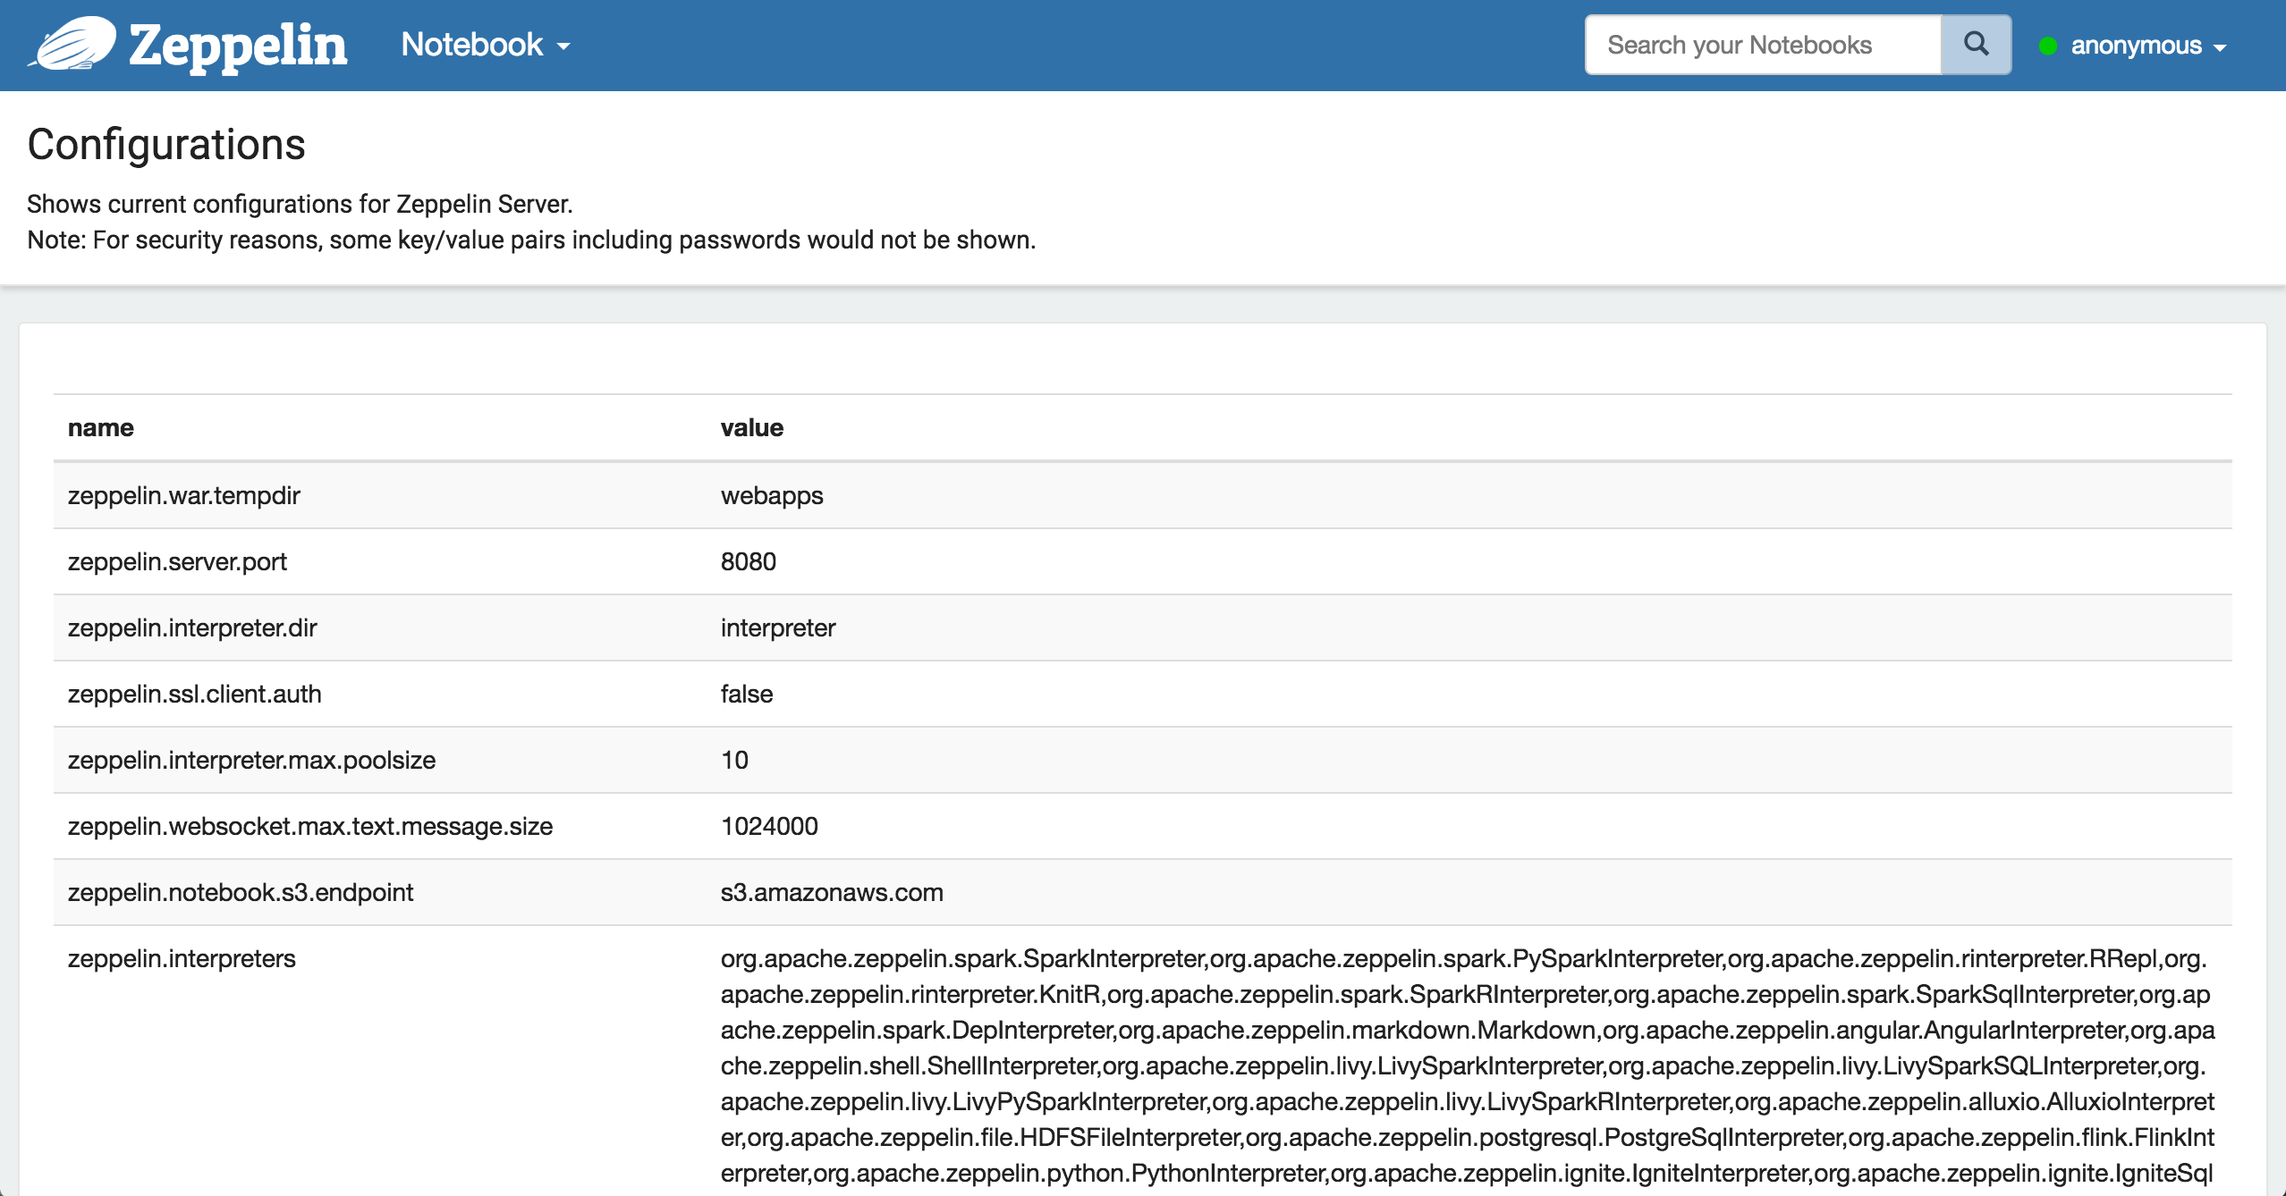
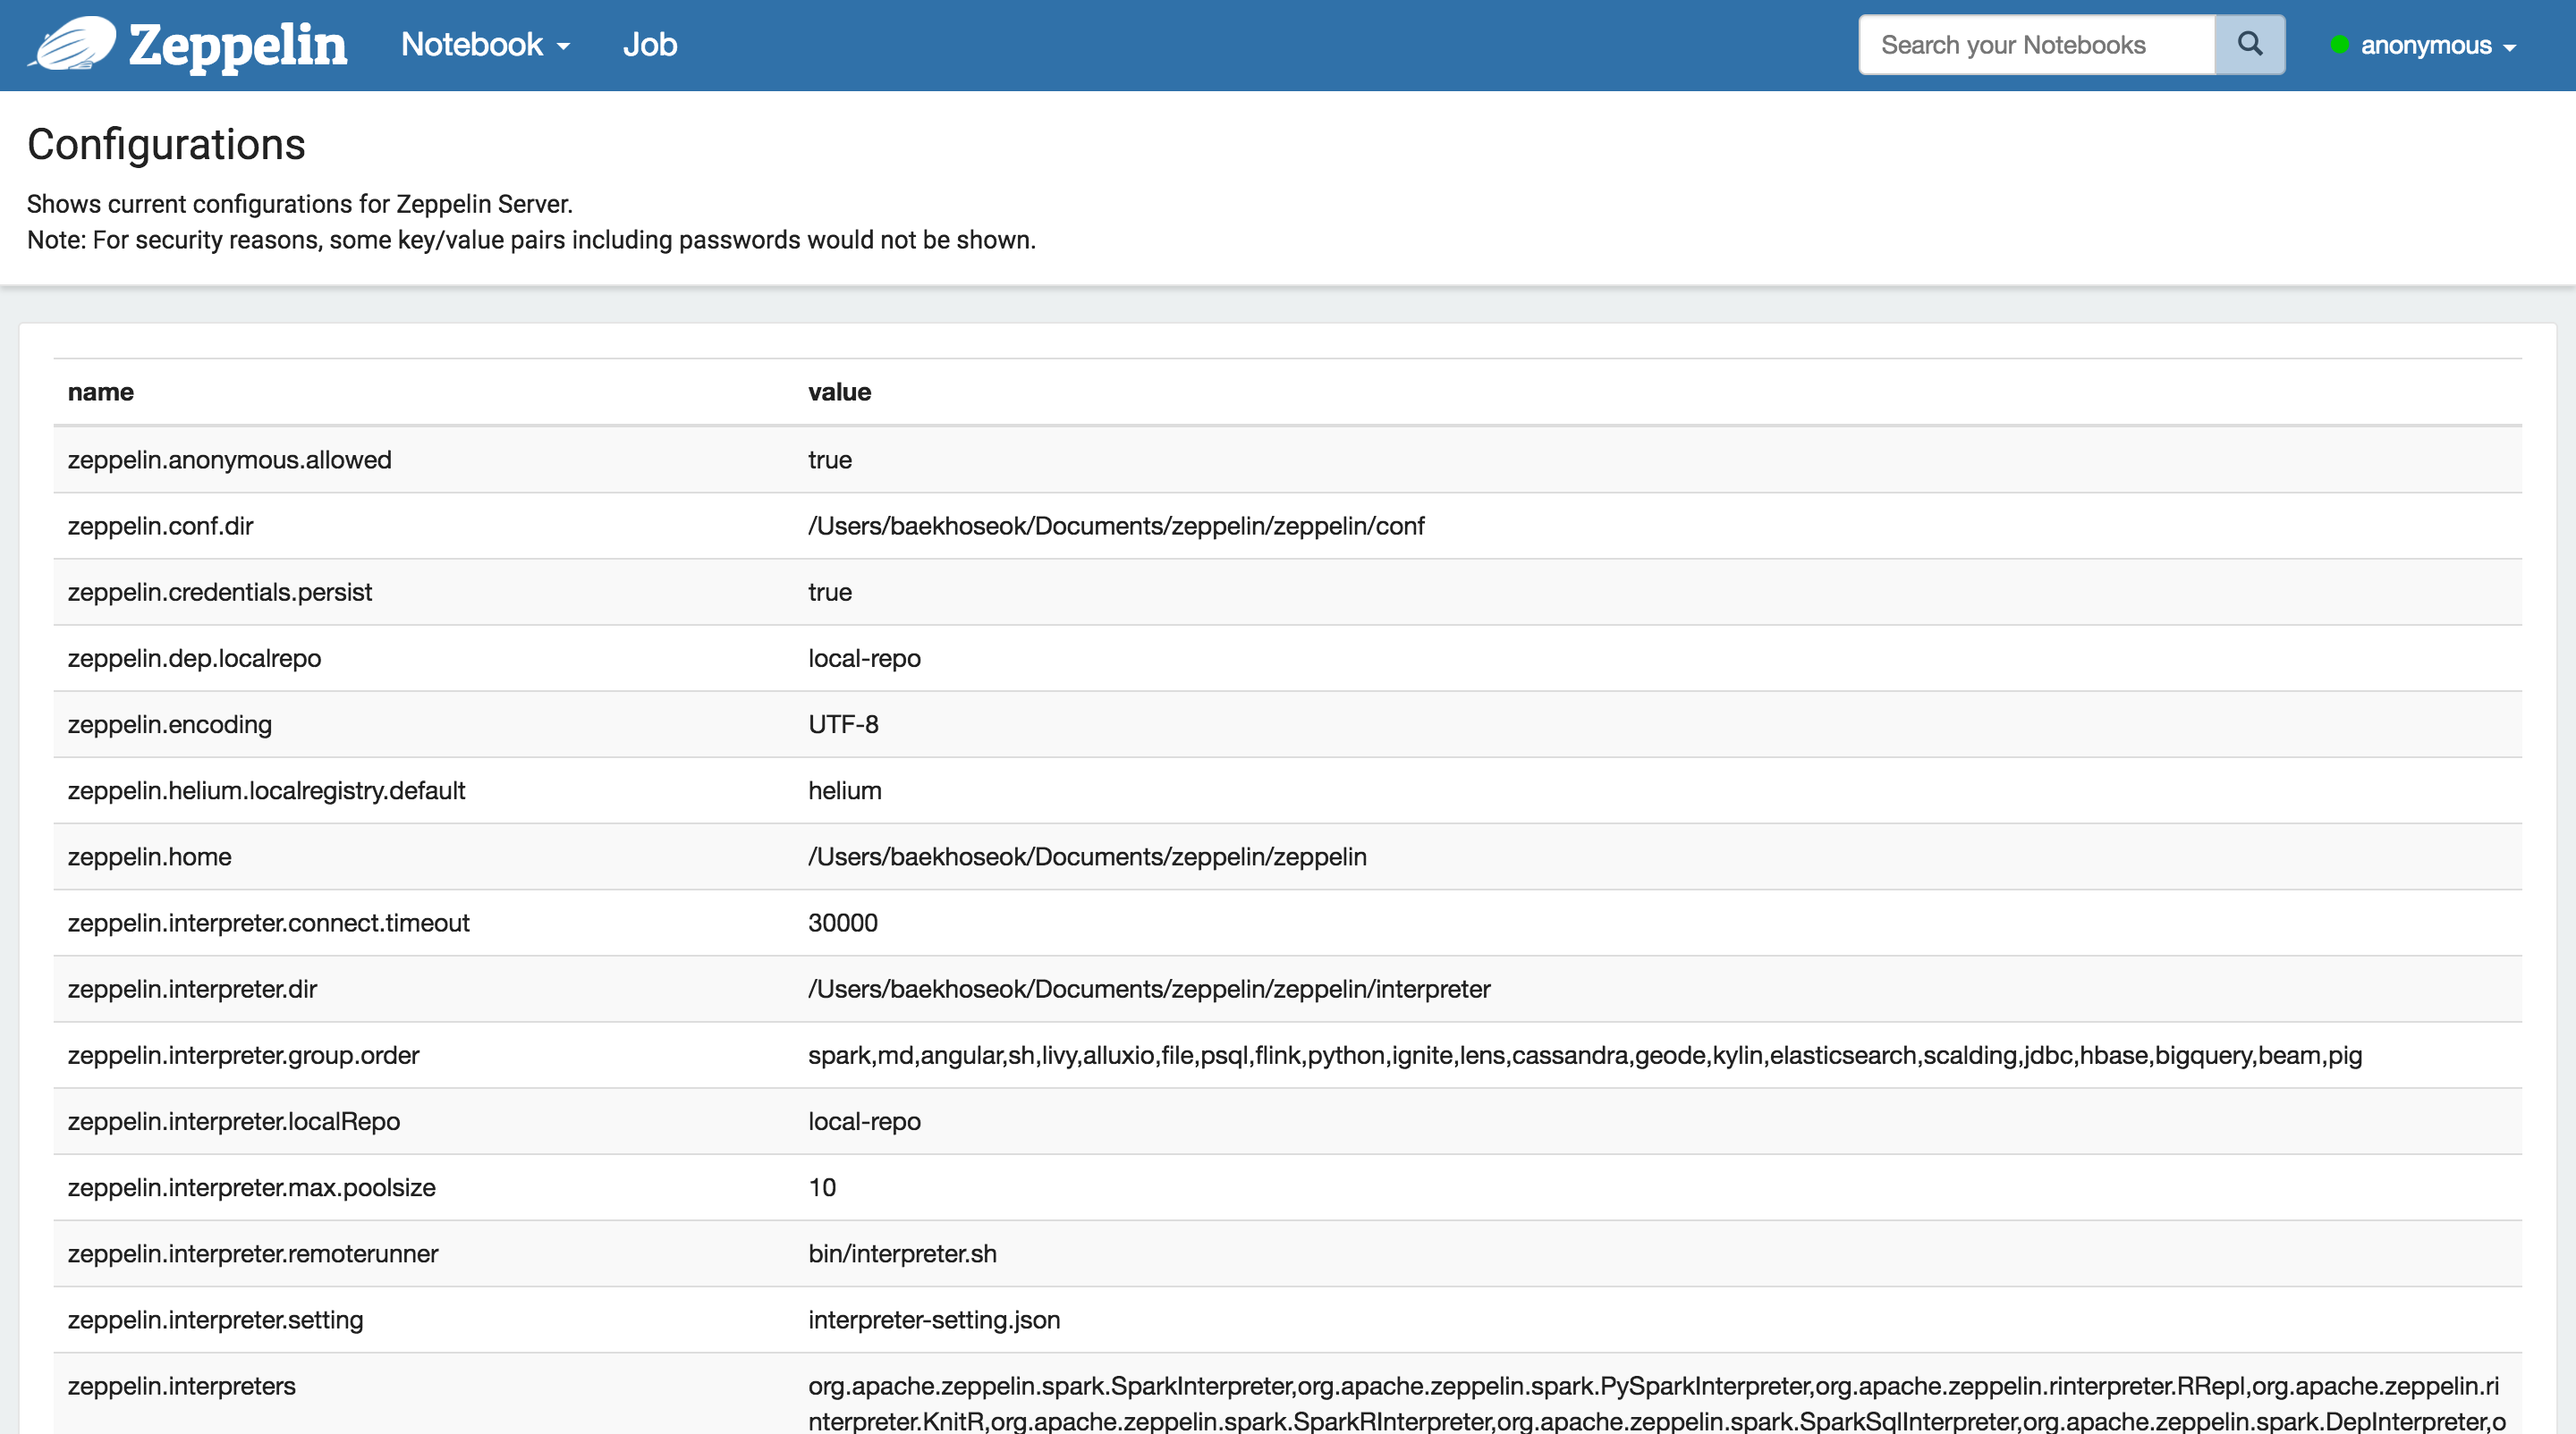
minor ui improvement

Changed region(s): [[0.0, 0.0, 1.0, 1.0], [0.0309, 0.9193, 0.1545, 0.9806]]

diff --git a/zeppelin-web/src/app/jobmanager/jobmanager.html b/zeppelin-web/src/app/jobmanager/jobmanager.html
@@ -41,8 +41,7 @@ limitations under the License.
         <span
           ng-switch-when="FINISHED">
           <i style="color: green; margin-right: 3px;" class="fa fa-circle"
-             ng-click=""
-             tooltip="FINISHED">
+             ng-click="">
           </i>
           {{jobStatus}}
         </span>
@@ -50,8 +49,7 @@ limitations under the License.
           ng-switch-when="RUNNING"
           style="margin-right: 3px;">
           <i style="color: blue" class="fa fa-spinner"
-             ng-click=""
-             tooltip="RUNNING">
+             ng-click="">
           </i>
           {{jobStatus}}
         </span>
@@ -59,8 +57,7 @@ limitations under the License.
           ng-switch-when="READY"
           style="margin-right: 3px;">
           <i style="color: green" class="fa fa-circle-o"
-             ng-click=""
-             tooltip="READY">
+             ng-click="">
           </i>
           {{jobStatus}}
         </span>
@@ -68,9 +65,7 @@ limitations under the License.
           ng-switch-when="PENDING"
           style="margin-right: 3px;">
           <i style="color: gray" class="fa fa-circle"
-             ng-click=""
-             tooltip="PENDING"
-          >
+             ng-click="">
           </i>
           {{jobStatus}}
         </span>
@@ -78,8 +73,7 @@ limitations under the License.
           ng-switch-when="ABORT"
           style="margin-right: 3px;">
           <i style="color: orange" class="fa fa-circle"
-             ng-click=""
-             tooltip="ABORT">
+             ng-click="">
           </i>
           {{jobStatus}}
         </span>
@@ -87,8 +81,7 @@ limitations under the License.
           ng-switch-when="ERROR"
           style="margin-right: 3px;">
           <i style="color: red" class="fa fa-circle"
-             ng-click=""
-             tooltip="ERROR">
+             ng-click="">
           </i>
           {{jobStatus}}
         </span>

diff --git a/zeppelin-web/src/app/interpreter/interpreter.html b/zeppelin-web/src/app/interpreter/interpreter.html
@@ -19,11 +19,11 @@ limitations under the License.
           Interpreters
         </h3>
         <div class="pull-right" style="margin-top:10px;">
-          <span style="cursor:pointer;margin-right:4px;"
-                ng-click="showRepositoryInfo = !showRepositoryInfo"
-                tooltip-placement="bottom" tooltip="Repository information">
-            <i class="fa fa-cog" ng-style="{color: showRepositoryInfo ? '#3071A9' : 'black' }"></i>
-          </span>
+          <button class="btn btn-default btn-sm"
+                  ng-click="showRepositoryInfo = !showRepositoryInfo">
+            <i class="fa fa-database" ng-style="{color: showRepositoryInfo ? '#3071A9' : 'black' }"></i>
+            Repository
+          </button>
           <button class="btn btn-default btn-sm"
                   ng-click="showAddNewSetting = !showAddNewSetting">
             <i class="fa fa-plus"></i>

diff --git a/zeppelin-web/src/app/configuration/configuration.html b/zeppelin-web/src/app/configuration/configuration.html
@@ -40,11 +40,11 @@ limitations under the License.
             <th>value</th>
           </tr>
           </thead>
-          <tr ng-repeat="(key, value) in configurations" >
+          <tr ng-repeat="key in configurations | sortByKey" >
             <td>{{key}}</td>
             <td>
               <div class="hiding_overflow">
-                {{value}}
+                {{configurations[key]}}
               </div>
             </td>
           </tr>
